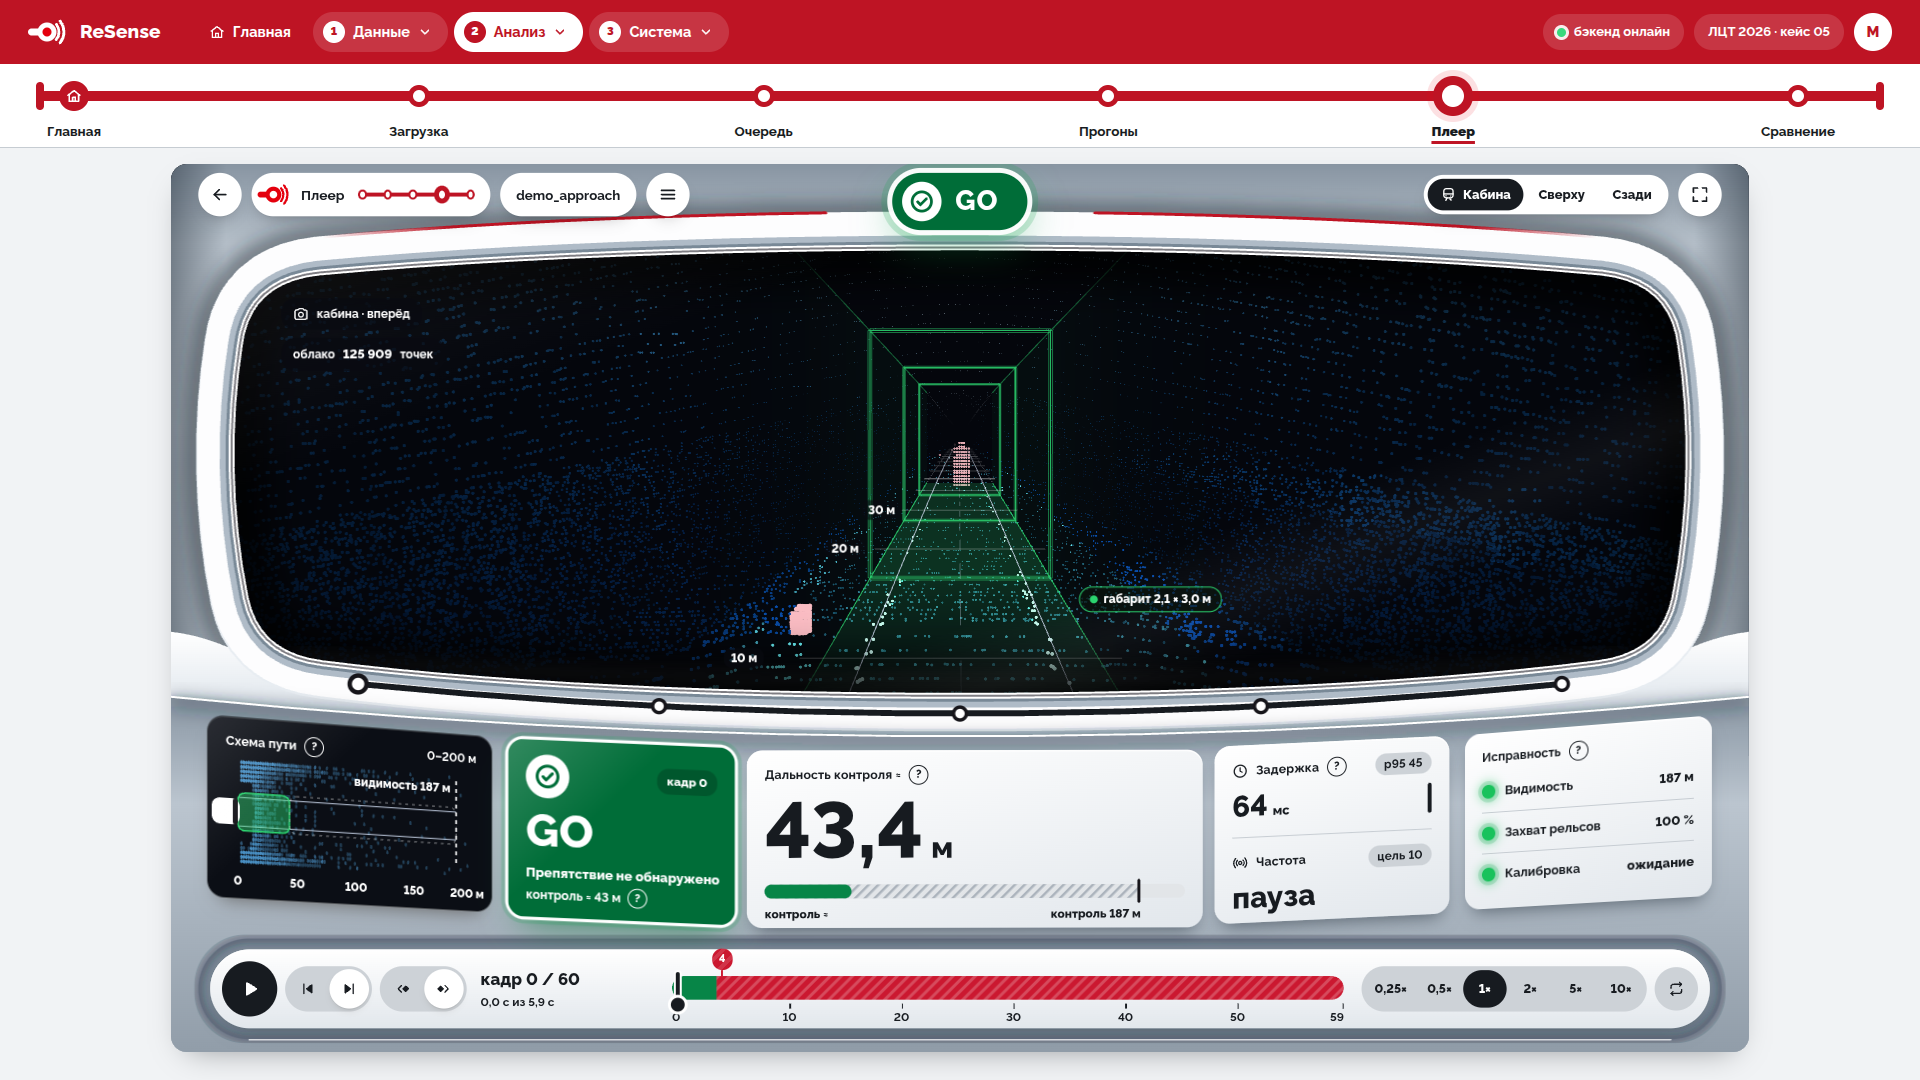
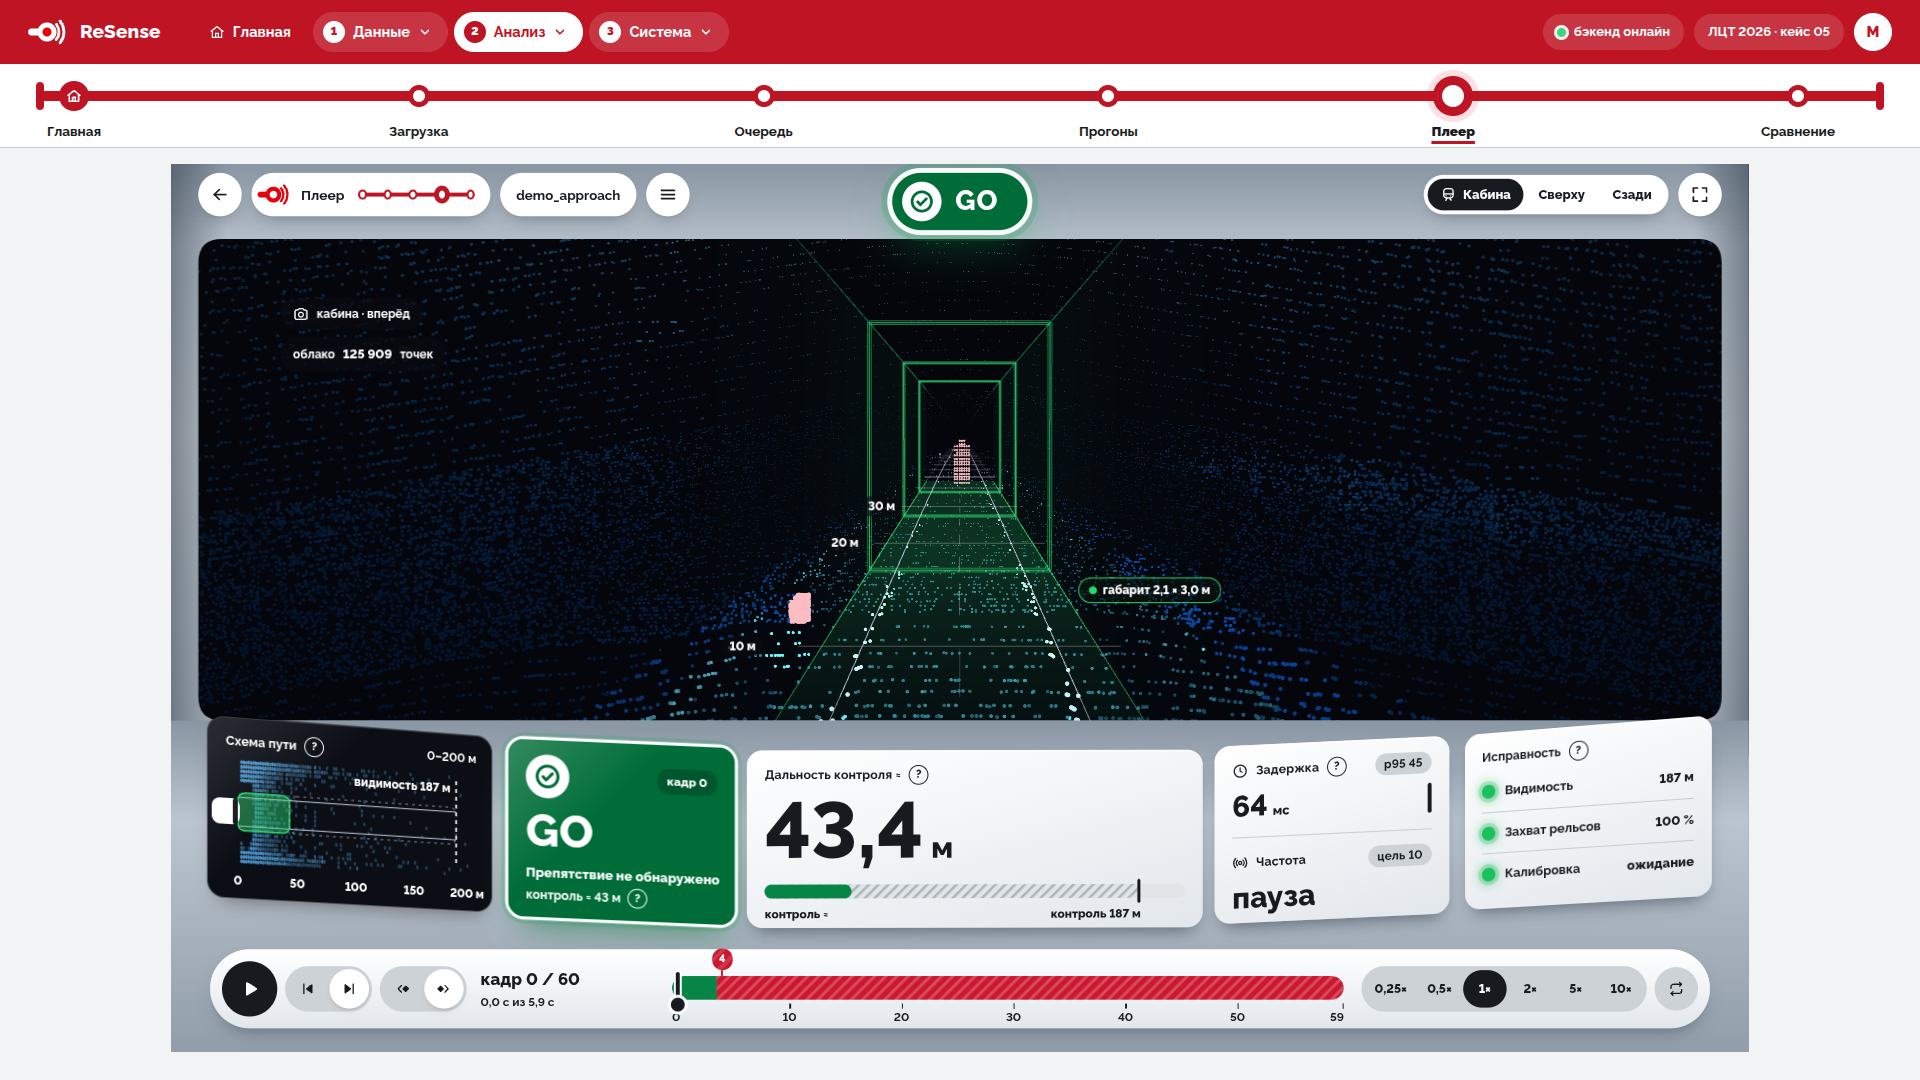
Remove player bezel and use a borderless rounded window

Changed region(s): [[0.0625, 0.1833, 0.9375, 0.7028], [0.0938, 0.8556, 0.9062, 1.0], [0.4375, 0.275, 0.5625, 0.3667]]

diff --git a/webapp/frontend/src/pages/Player/CabFrame.tsx b/webapp/frontend/src/pages/Player/CabFrame.tsx
@@ -1,191 +1,49 @@
-// The interior of the future-train cab around the 3D view (webapp/design/mockup/player.html): the
-// glass cut-out with its vignette, the white canopy frame, the red roof lip broken for the beacon,
-// the curved console with the recess of the scrubber, the red ambient wash while STOP, and the
-// 0–200 m distance line on the dash with the obstacle as its only red mark.
+// The existing steel backdrop around a flush, rounded-rectangle 3D window.
+// The glass has no bezel, rim, outline or raised surround.
 import { memo } from 'react';
-import styles from './Player.module.css';
 
-export const GLASS_PATH =
-  'M150 110 C520 76 1080 76 1450 110 Q1522 118 1530 184 C1542 260 1542 352 1524 440 Q1512 498 1446 506 C1100 550 500 550 154 506 Q88 498 76 440 C58 352 58 260 70 184 Q78 118 150 110 Z';
+const WINDOW_PATH =
+  'M52 76 H1548 Q1572 76 1572 100 V540 Q1572 564 1548 564 H52 Q28 564 28 540 V100 Q28 76 52 76 Z';
 
-/** A point of the dash line (quadratic 190,527 → 800,587 → 1410,527) at a distance 0–200 m. */
-export function dashPoint(m: number): { x: number; y: number } {
-  const t = Math.min(1, Math.max(0, m / 200));
-  return { x: 190 + 1220 * t, y: 527 + 120 * t * (1 - t) };
-}
-
-/** The roof lip (a cubic), broken where the beacon hangs (x 664–936): a dash pattern by arc length. */
-const LIP = 'M154 74 C520 40 1080 40 1446 74';
-const LIP_DASH = (() => {
-  const P = [
-    [154, 74],
-    [520, 40],
-    [1080, 40],
-    [1446, 74],
-  ];
-  const at = (t: number, i: 0 | 1) => {
-    const u = 1 - t;
-    return u * u * u * P[0][i] + 3 * u * u * t * P[1][i] + 3 * u * t * t * P[2][i] + t * t * t * P[3][i];
-  };
-  let len = 0;
-  let a = 0;
-  let b = 0;
-  let px = at(0, 0);
-  let py = at(0, 1);
-  for (let k = 1; k <= 2000; k += 1) {
-    const x = at(k / 2000, 0);
-    const y = at(k / 2000, 1);
-    len += Math.hypot(x - px, y - py);
-    if (!a && x >= 664) a = len;
-    if (!b && x >= 936) b = len;
-    px = x;
-    py = y;
-  }
-  return `${a.toFixed(1)} ${(b - a).toFixed(1)} ${len.toFixed(1)}`;
-})();
-
-const Interior = memo(function Interior() {
+export const CabFrame = memo(function CabFrame({ stop, className }: { stop: boolean; className?: string }) {
   return (
-    <>
+    <svg className={className} viewBox="0 0 1600 900" width="1600" height="900" aria-hidden>
       <defs>
-        <path id="cab-glass" d={GLASS_PATH} />
-        <clipPath id="cab-glassClip">
-          <use href="#cab-glass" />
+        <clipPath id="cab-outside-window">
+          <path clipRule="evenodd" d={`M0 0 H1600 V900 H0 Z ${WINDOW_PATH}`} />
         </clipPath>
-        <clipPath id="cab-outG">
-          <path clipRule="evenodd" d={`M0 0 H1600 V900 H0 Z ${GLASS_PATH}`} />
-        </clipPath>
-        <linearGradient id="cab-ceilG" x1="0" y1="0" x2="0" y2="1">
+        <linearGradient id="cab-ceiling" x1="0" y1="0" x2="0" y2="1">
           <stop offset="0" stopColor="#8895A2" />
           <stop offset=".09" stopColor="#B5BFC9" />
           <stop offset=".3" stopColor="#C7CFD7" />
           <stop offset="1" stopColor="#929FAB" />
         </linearGradient>
-        <linearGradient id="cab-wallV" x1="0" y1="0" x2="1" y2="0">
+        <linearGradient id="cab-walls" x1="0" y1="0" x2="1" y2="0">
           <stop offset="0" stopColor="#1F2A35" stopOpacity=".45" />
           <stop offset=".035" stopColor="#1F2A35" stopOpacity="0" />
           <stop offset=".965" stopColor="#1F2A35" stopOpacity="0" />
           <stop offset="1" stopColor="#1F2A35" stopOpacity=".45" />
         </linearGradient>
-        <linearGradient id="cab-dashG" x1="0" y1="0" x2="0" y2="1">
-          <stop offset="0" stopColor="#FFFFFF" />
-          <stop offset=".55" stopColor="#E7ECF1" />
-          <stop offset="1" stopColor="#B5C0CC" />
-        </linearGradient>
-        <linearGradient id="cab-consG" x1="0" y1="0" x2="0" y2="1">
+        <linearGradient id="cab-console" x1="0" y1="0" x2="0" y2="1">
           <stop offset="0" stopColor="#8996A3" />
           <stop offset=".3" stopColor="#BBC5CF" />
           <stop offset="1" stopColor="#919DA9" />
         </linearGradient>
-        <linearGradient id="cab-sheen" x1="0" y1="0" x2="1" y2="1">
-          <stop offset="0" stopColor="#fff" stopOpacity=".09" />
-          <stop offset=".3" stopColor="#fff" stopOpacity="0" />
-          <stop offset=".64" stopColor="#fff" stopOpacity="0" />
-          <stop offset=".7" stopColor="#fff" stopOpacity=".045" />
-          <stop offset=".76" stopColor="#fff" stopOpacity="0" />
-        </linearGradient>
-        <linearGradient id="cab-lipG" gradientUnits="userSpaceOnUse" x1="154" x2="1446" y1="0" y2="0">
-          <stop offset="0" stopColor="var(--red)" stopOpacity="0" />
-          <stop offset=".1" stopColor="var(--red)" />
-          <stop offset=".9" stopColor="var(--red)" />
-          <stop offset="1" stopColor="var(--red)" stopOpacity="0" />
-        </linearGradient>
-        <filter id="cab-b28" x="-30%" y="-100%" width="160%" height="300%">
+        <filter id="cab-ambient" x="-30%" y="-100%" width="160%" height="300%">
           <feGaussianBlur stdDeviation="28" />
         </filter>
-        <filter id="cab-b18" x="-20%" y="-50%" width="140%" height="200%">
-          <feGaussianBlur stdDeviation="18" />
-        </filter>
-        <filter id="cab-b8" x="-20%" y="-50%" width="140%" height="200%">
-          <feGaussianBlur stdDeviation="8" />
-        </filter>
-        <filter id="cab-b4" x="-10%" y="-50%" width="120%" height="200%">
-          <feGaussianBlur stdDeviation="4" />
-        </filter>
       </defs>
-      {/* glass: vignette, sheen, the beacon's glow, a faint reflection of the console */}
-      <g clipPath="url(#cab-glassClip)">
-        <use href="#cab-glass" fill="none" stroke="#000" strokeOpacity=".8" strokeWidth="70" filter="url(#cab-b18)" />
-        <rect x="0" y="0" width="1600" height="600" fill="url(#cab-sheen)" />
-        <path d="M120 500 C470 530 1130 530 1480 500" fill="none" stroke="#FFFFFF" strokeOpacity=".04" strokeWidth="16" filter="url(#cab-b8)" />
+      <g clipPath="url(#cab-outside-window)">
+        <rect width="1600" height="900" fill="url(#cab-ceiling)" />
+        <rect width="1600" height="900" fill="url(#cab-walls)" />
+        <rect y="564" width="1600" height="336" fill="url(#cab-console)" />
+        {stop && (
+          <g fill="#FF2A3C" filter="url(#cab-ambient)">
+            <ellipse cx="800" cy="40" rx="560" ry="70" fillOpacity=".2" />
+            <ellipse cx="800" cy="612" rx="760" ry="34" fillOpacity=".08" />
+          </g>
+        )}
       </g>
-      {/* the interior around the glass */}
-      <g clipPath="url(#cab-outG)">
-        <rect width="1600" height="900" fill="url(#cab-ceilG)" />
-        <rect width="1600" height="900" fill="url(#cab-wallV)" />
-        <use href="#cab-glass" fill="none" stroke="#1F2A35" strokeOpacity=".45" strokeWidth="96" filter="url(#cab-b8)" />
-        <path fill="url(#cab-dashG)" d="M0 474 C34 478 62 490 92 506 L1508 506 C1538 490 1566 478 1600 474 L1600 540 Q800 620 0 540 Z" />
-        <use href="#cab-glass" fill="none" stroke="#E8EDF2" strokeWidth="72" />
-        <use href="#cab-glass" fill="none" stroke="#FFFFFF" strokeWidth="70" strokeOpacity=".9" transform="translate(0 -1.5)" />
-        <use href="#cab-glass" fill="none" stroke="#AFBBC7" strokeWidth="24" />
-        <use href="#cab-glass" fill="none" stroke="#798997" strokeWidth="12" />
-        <path d={LIP} fill="none" stroke="url(#cab-lipG)" strokeWidth="3" strokeLinecap="round" strokeDasharray={LIP_DASH} />
-        <path d="M190 527 Q800 587 1410 527" fill="none" stroke="var(--ink)" strokeWidth="6" strokeLinecap="round" />
-        {[0, 50, 100, 150, 200].map((m) => {
-          const p = dashPoint(m);
-          return <circle key={m} cx={p.x} cy={p.y} r={m === 0 ? 8.5 : 6.5} fill="#fff" stroke="#16151A" strokeWidth={m === 0 ? 4.5 : 3.5} />;
-        })}
-        <path d="M0 546 Q800 626 1600 546" fill="none" stroke="#1F2A35" strokeOpacity=".45" strokeWidth="10" filter="url(#cab-b4)" />
-      </g>
-      {/* console: a curved satin shell under the glass; tiles ride its arc */}
-      <path fill="url(#cab-consG)" d="M0 540 Q800 620 1600 540 V900 H0 Z" />
-      <path d="M0 545 Q800 625 1600 545" fill="none" stroke="#1F2A35" strokeOpacity=".35" strokeWidth="12" filter="url(#cab-b8)" />
-      <path d="M0 540 Q800 620 1600 540" fill="none" stroke="#FFFFFF" strokeWidth="2" />
-      <rect x="28" y="785" width="1544" height="102" rx="51" fill="#7B8997" />
-      <rect x="28" y="785" width="1544" height="102" rx="51" fill="none" stroke="#1F2A35" strokeOpacity=".4" strokeWidth="8" filter="url(#cab-b4)" clipPath="inset(0 round 51px)" />
-      <path d="M79 887.5 H1521" stroke="#fff" strokeOpacity=".8" strokeWidth="1.5" />
-    </>
-  );
-});
-
-const Ambient = memo(function Ambient() {
-  return (
-    <g clipPath="url(#cab-outG)">
-      <ellipse cx="800" cy="40" rx="560" ry="70" fill="#FF2A3C" fillOpacity=".2" filter="url(#cab-b28)" />
-      <path d="M154 90 C520 56 1080 56 1446 90" fill="none" stroke="#FF2A3C" strokeOpacity=".12" strokeWidth="40" filter="url(#cab-b18)" />
-      <ellipse cx="800" cy="564" rx="700" ry="30" fill="#FF2A3C" fillOpacity=".13" filter="url(#cab-b18)" />
-      <ellipse cx="800" cy="612" rx="760" ry="34" fill="#FF2A3C" fillOpacity=".08" filter="url(#cab-b28)" />
-    </g>
-  );
-});
-
-const Shell = memo(function Shell({ stop, className }: { stop: boolean; className?: string }) {
-  return (
-    <svg className={className} viewBox="0 0 1600 900" width="1600" height="900" aria-hidden>
-      <Interior />
-      {stop && (
-        <g clipPath="url(#cab-glassClip)">
-          <path d="M0 110 Q800 40 1600 110" fill="none" stroke="#FF3040" strokeOpacity=".2" strokeWidth="60" filter="url(#cab-b18)" />
-        </g>
-      )}
-      {stop && <Ambient />}
-      {/* glass rim */}
-      <use href="#cab-glass" fill="none" stroke="#FFFFFF" strokeWidth="6" />
-      <use href="#cab-glass" fill="none" stroke="#2A2830" strokeOpacity=".6" strokeWidth="2" />
     </svg>
   );
 });
-
-/** The obstacle on the dash line: its own small SVG, so the blurred cab above never repaints at 10 Hz. */
-function DashMarker({ m }: { m: number }) {
-  const ob = dashPoint(m);
-  const x = ob.x - 20;
-  const y = ob.y - 20;
-  return (
-    <svg className={styles.dashMark} style={{ left: x, top: y }} width="40" height="40" viewBox="0 0 40 40" aria-hidden>
-      <circle cx="20" cy="20" r="18" fill="#FF2A3C" fillOpacity=".18" />
-      <circle cx="20" cy="20" r="11" fill="#D0001B" stroke="#fff" strokeWidth="3" />
-      <path d="M15 20h10" stroke="#fff" strokeWidth="2.8" strokeLinecap="round" />
-    </svg>
-  );
-}
-
-export function CabFrame({ stop, obstacleM, className }: { stop: boolean; obstacleM: number | null; className?: string }) {
-  const show = obstacleM !== null && obstacleM >= 0 && obstacleM <= 200;
-  return (
-    <>
-      <Shell stop={stop} className={className} />
-      {show && <DashMarker m={obstacleM} />}
-    </>
-  );
-}

diff --git a/webapp/frontend/src/pages/Player/index.tsx b/webapp/frontend/src/pages/Player/index.tsx
@@ -99,7 +99,7 @@ function CabShell({ runId, runName, glass, console: cons }: { runId?: string; ru
   return (
     <Stage>
       <div className={styles.glassFill} />
-      <CabFrame className={styles.cab} stop={false} obstacleM={null} />
+      <CabFrame className={styles.cab} stop={false} />
       <div className={styles.glassArea}>{glass}</div>
       <Roof runId={runId} runName={runName} decision={null} fullscreen={fs.active} kiosk={fs.pseudo} onFullscreen={fs.toggle} onBack={back} />
       {cons}
@@ -277,7 +277,6 @@ function Cab({ run, seriesT, seriesFrames, latency, cloudFrames, cloudBudget, cl
   const lastFrameNo = (seriesFrames?.[n - 1] ?? n - 1) + 1;
   const confirmS = confirmTime(run, schema.data?.find((p) => p.key === 'tracking.confirm_time_s')?.default as number | undefined);
   const minVis = minVisibility(run, schema.data?.find((p) => p.key === 'health.min_visibility')?.default as number | undefined);
-  const nearestObstacle = frame?.obstacle ? (frame.nearest_distance ?? null) : null;
 
   // controls
   const { k, fs } = useContext(ChromeContext);
@@ -361,7 +360,7 @@ function Cab({ run, seriesT, seriesFrames, latency, cloudFrames, cloudBudget, cl
         />
       )}
       {webglError && <div className={styles.glassFill} />}
-      <CabFrame className={styles.cab} stop={decision === 'STOP'} obstacleM={nearestObstacle} />
+      <CabFrame className={styles.cab} stop={decision === 'STOP'} />
       <Hud
         frame={frame}
         mode={mode}

diff --git a/webapp/frontend/src/pages/Player/Player.module.css b/webapp/frontend/src/pages/Player/Player.module.css
@@ -1,13 +1,11 @@
-/* The dimensional cab: one 1600×900 composition, contained beneath the pinned navigation. */
+/* A borderless 1600×900 player with a rounded window beneath the pinned navigation. */
 .root {
   position: relative;
   width: min(100%, calc(max(0px, 100dvh - var(--site-chrome-h, 148px) - 44px) * 16 / 9));
   aspect-ratio: 16 / 9;
   background: var(--cab-2);
-  border-radius: 16px;
   overflow: hidden;
   color: var(--ink);
-  box-shadow: 0 12px 32px -16px rgba(23, 27, 32, 0.5);
 }
 .stage {
   position: absolute;
@@ -53,12 +51,6 @@
   inset: 0;
   pointer-events: none;
 }
-/* the obstacle on the dash line (CabFrame.tsx), outside the cab SVG */
-.dashMark {
-  position: absolute;
-  pointer-events: none;
-}
-
 /* ---------------------------------------------------------------- HUD in the glass */
 .hud {
   position: absolute;

diff --git a/docs/images/ui-improvement/README.md b/docs/images/ui-improvement/README.md
@@ -13,14 +13,15 @@ Each view was captured at 1920×1080, 1280×720, 820×1180 and 390×844:
 - `overview-*`: Raleway, metro-red actions, cool neutral surfaces, responsive overview.
 - `upload-*`: source selector, upload controls and processing options beneath pinned navigation.
 - `about-*`: system category and its navigation branch; the processing diagram becomes vertical on phones.
-- `picker-*`: run selection inside the dimensional cab.
+- `picker-*`: run selection inside the borderless, rounded player window.
 - `player-clear-*`, `player-caution-*`, `player-stop-*`: real GO, CAUTION and STOP frames.
 
 The complete cab is uniformly scaled from 1600×900 to its available container. Its
 WebGL canvas is rendered at 1600×600 with the corresponding camera aspect; the glass,
 HUD, curved console, five instrument panels and scrubber share that coordinate
-system. There is no oversized canvas hidden behind a shorter viewport. The molded
-screen surround and instrument perspective are retained with cooler metal surfaces.
+system. There is no oversized canvas hidden behind a shorter viewport. The window
+is a rounded rectangle with straight edges and no bezel, outline or raised surround.
+The existing steel backdrop, top controls and instrument perspective remain.
 
 The top bar and category rail remain outside the scrolling content on every route,
 including the player picker, loading/error states and both real/fallback fullscreen.
